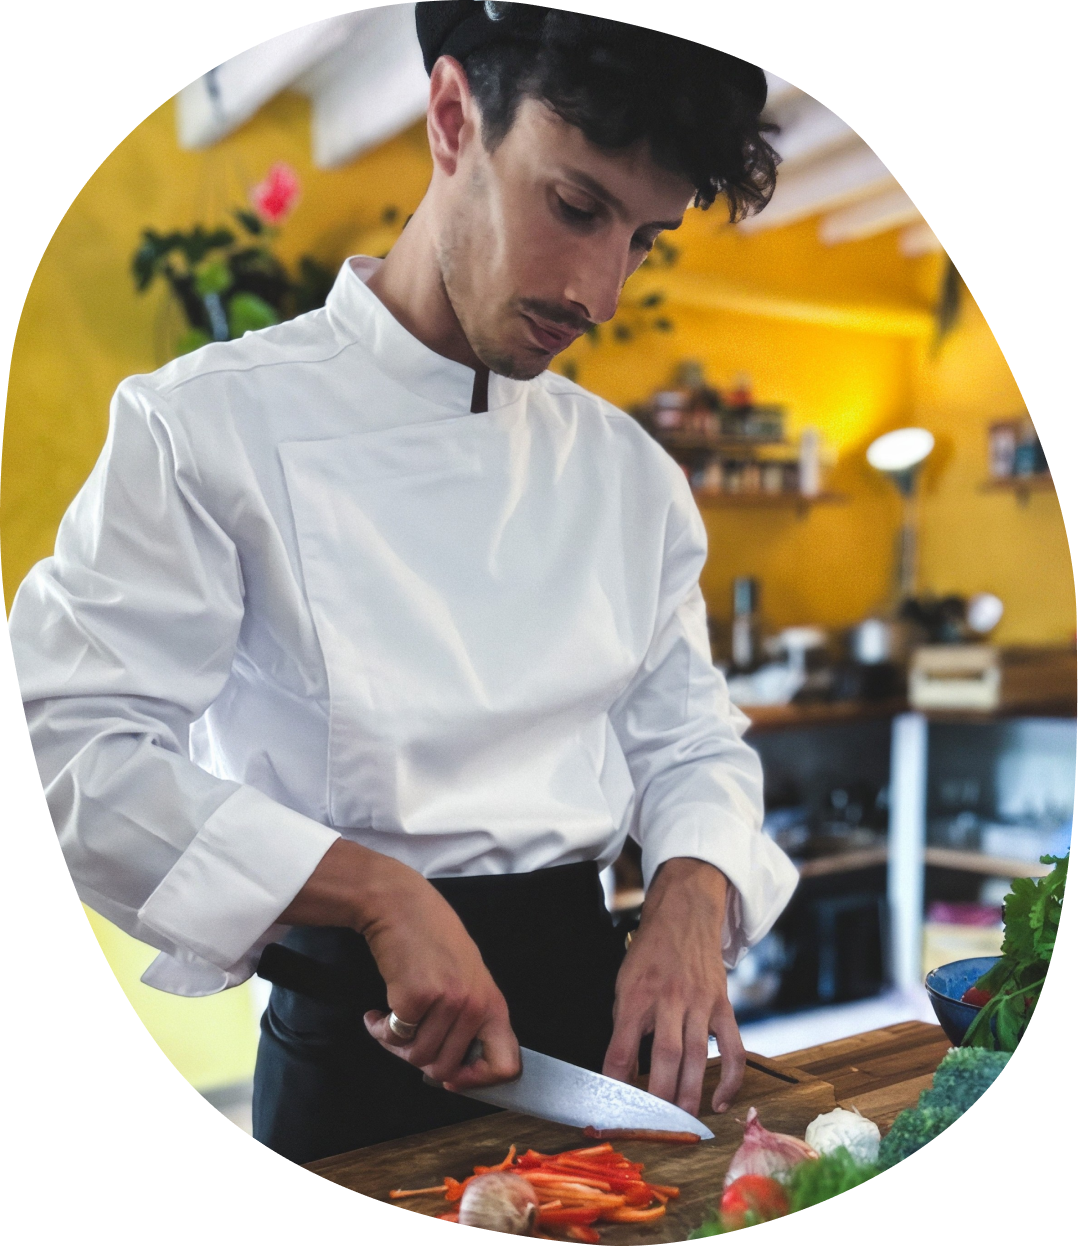
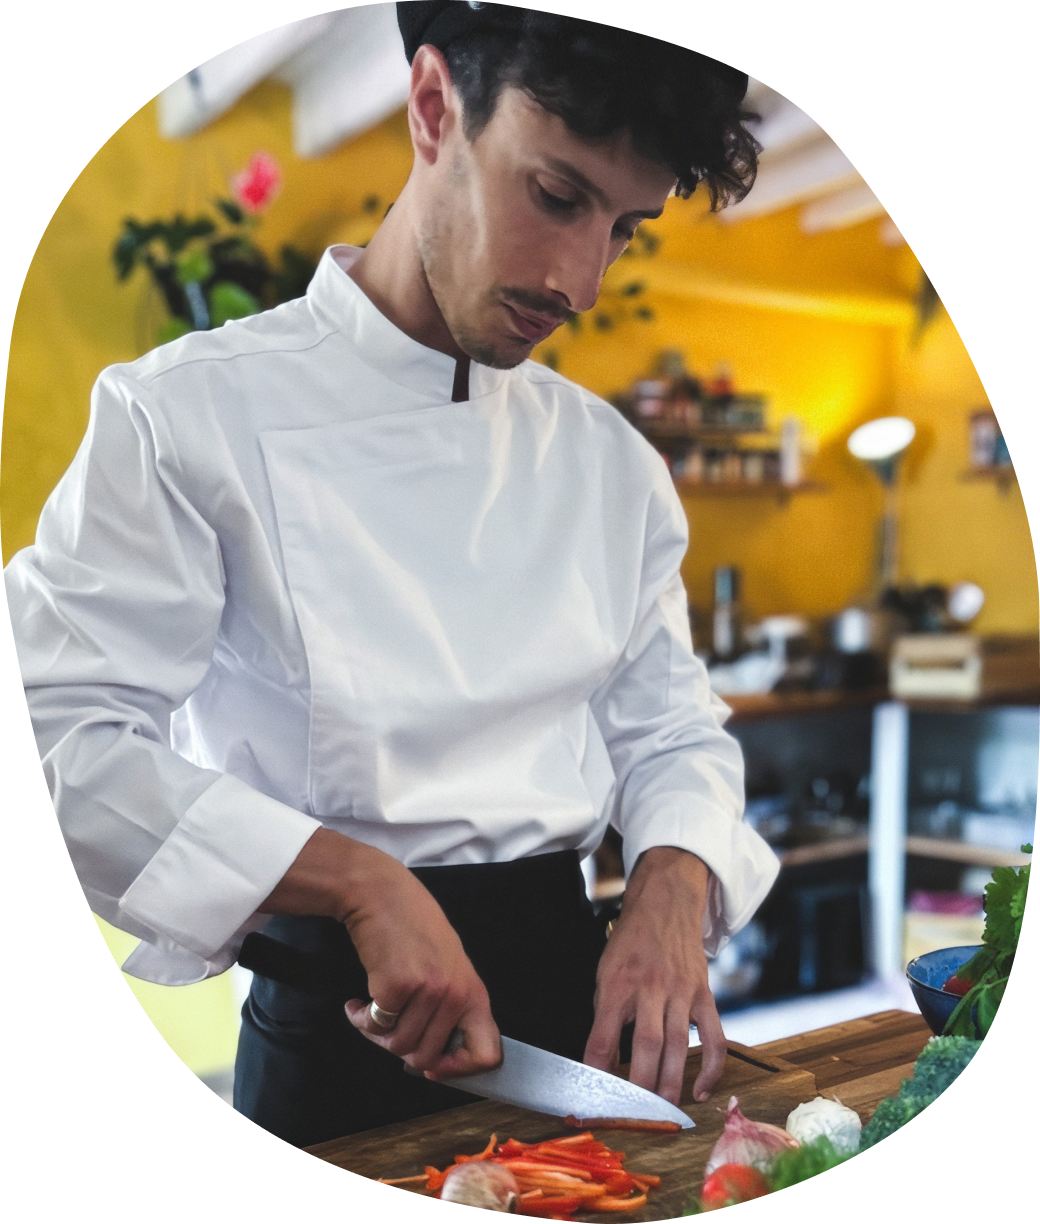
a-propos : mise en ligne de la composition Voie C (Bruno Pereira Vaz / le goût du lien)
- EN_CHANTIER -> false : la composition (5 blobs + photo) remplace le
  placeholder « chantier en cours ».
- Titre remplacé par « Bruno Pereira Vaz », « le goût du lien » en
  sous-titre (même logique que .howto__title / .howto__subtitle sur
  l'Accueil).
- Fonds de bulles agrandis (transform: scale(1.2), 1.3 sur
  Transmission) et padding du texte rééquilibré pour que chaque blob
  contienne mieux son texte.
- Calage fin des positions (terre, créativité, social, transmission,
  photo) et remontée de la scène pour se rapprocher du titre.
- Nouvel asset Bruno.png (détourage adouci, remplace l'ancien crop
  rectangulaire).

diff --git a/src/styles/sections/a-propos/a-propos-content.css b/src/styles/sections/a-propos/a-propos-content.css
@@ -11,9 +11,19 @@
 .a-propos-content__title {
   margin: 0;
   font-family: var(--font-display);
-  font-weight: 900;
+  font-weight: 700;
   letter-spacing: 0.02em;
   font-size: clamp(1.8rem, 2.9vw, 3.4375rem);
+  color: #2c2c28;
+}
+
+/* Sous-titre : même logique que .howto__subtitle sur l'Accueil
+   (titre en gras + sous-titre plus léger juste en dessous). */
+.a-propos-content__subtitle {
+  margin: 0.6rem 0 0;
+  font-family: var(--font-display);
+  font-weight: 500;
+  font-size: clamp(1.1rem, 1.4vw, 1.375rem);
   color: #2c2c28;
 }
 
@@ -26,7 +36,7 @@
 
 .a-propos-content__chantier {
   display: inline-block;
-  margin: 1.4rem 0 0;
+  margin: -7rem 0 0;
   padding-top: 1.1rem;
   border-top: 1px dashed #c9c4ba;
   font-family: var(--font-body);
@@ -49,7 +59,7 @@
   position: relative;
   width: min(1520px, 100%);
   aspect-ratio: 1866 / 1781;
-  margin: 3rem auto 0;
+  margin: -8rem auto 0;
   container-type: inline-size;
 }
 
@@ -64,13 +74,18 @@
   width: 100%;
   height: 100%;
   object-fit: fill;
+  transform: scale(1.2);
+}
+
+.ap-bubble--transmission .ap-bubble__bg {
+  transform: scale(1.3);
 }
 
 .ap-bubble__txt {
   position: relative;
   z-index: 5;
   text-align: left;
-  padding: 1% 5% 2.5% 12%;
+  padding: 2% 6% 3.5% 9%;
 }
 
 /* Tailles calées sur la maquette : cqi = % de la largeur de la scène,
@@ -118,26 +133,26 @@
 .ap-bubble--metier .ap-bubble__num { color: #8ba47e; }
 .ap-bubble--metier .ap-bubble__p--accent { color: #546d48; }
 
-.ap-bubble--terre { left: 50%; top: 13.5%; width: 36%; }
+.ap-bubble--terre { left: 56%; top: 13.5%; width: 36%; }
 .ap-bubble--terre .ap-bubble__num { color: #bd7f30; }
 .ap-bubble--terre .ap-bubble__p--accent { color: #905509; }
 
-.ap-bubble--creativite { left: 1.5%; top: 51%; width: 40.5%; }
+.ap-bubble--creativite { left: -2.5%; top: 51%; width: 40.5%; }
 .ap-bubble--creativite .ap-bubble__num { color: #709791; }
 .ap-bubble--creativite .ap-bubble__p--accent { color: #486d67; }
 
-.ap-bubble--social { left: 64%; top: 43.5%; width: 34.5%; }
+.ap-bubble--social { left: 68%; top: 43.5%; width: 34.5%; }
 .ap-bubble--social .ap-bubble__num { color: #d47373; }
 .ap-bubble--social .ap-bubble__p--accent { color: #a54d4c; }
 
-.ap-bubble--transmission { left: 40%; top: 75.8%; width: 40%; }
+.ap-bubble--transmission { left: 40%; top: 77.8%; width: 40%; }
 .ap-bubble--transmission .ap-bubble__num { color: #9a7e97; }
 .ap-bubble--transmission .ap-bubble__p--accent { color: #755973; }
 
 /* Photo centrale : au-dessus des blobs, sous le texte. */
 .ap-stage__photo {
   position: absolute;
-  left: 35.5%;
+  left: 36.5%;
   top: 38.5%;
   width: 28.5%;
   height: auto;
